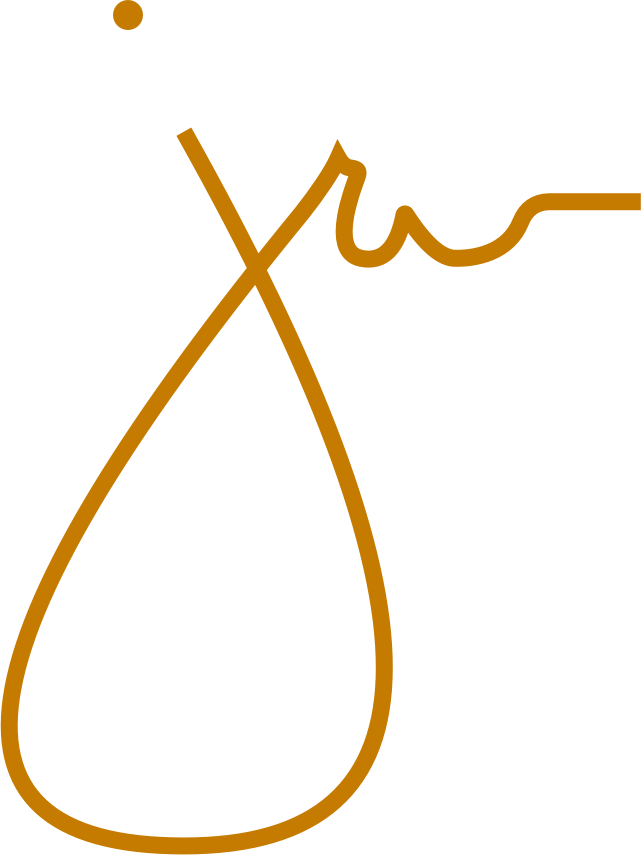
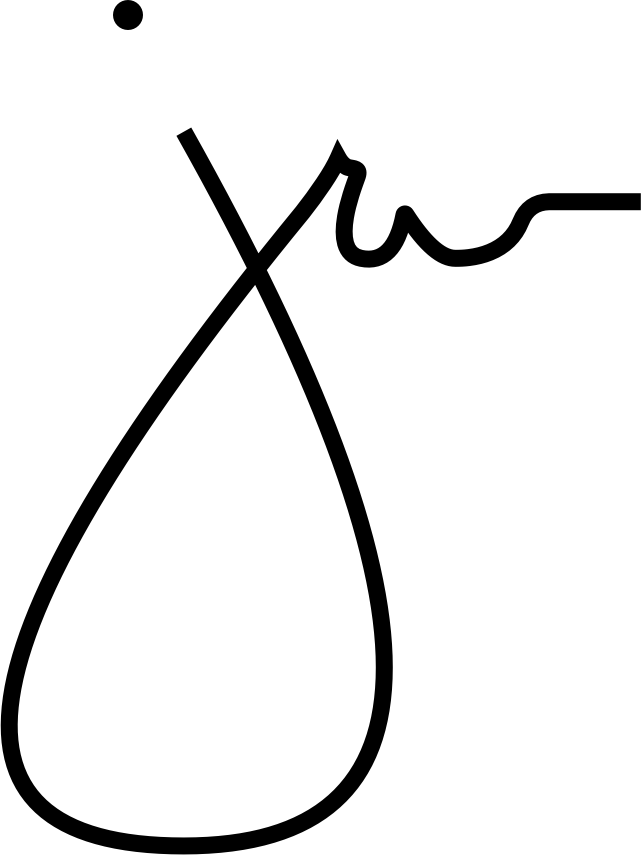
style updates

Changed region(s): [[0.0, 0.152, 1.0, 1.0], [0.156, 0.0, 0.2184, 0.0608]]

diff --git a/_sass/typography.scss b/_sass/typography.scss
@@ -14,7 +14,7 @@ p, ul, ol {
 	font-size: 1em; /* 16px */
 	line-height: 1.5em; /* 24px/16px */
 	margin-bottom: 1.5em; /* 24px/16px */
-	font-family: 'Crimson Text', serif;
+	font-family: 'Muli', sans-serif;
 }
 
 h1 {
@@ -69,7 +69,7 @@ p, ul, ol {
 	font-size: 1em; /* 18px */
 	line-height: 1.3334em; /* 24px/18px */
 	margin-bottom: 1.3334em; /* 24px/18px */
-	font-family: 'Crimson Text', serif;
+	font-family: 'Muli', sans-serif;
 }
 
 h1 {
@@ -110,7 +110,7 @@ blockquote {
           border-radius: 4px;
 	background-color: darken($background-color, 5%);
 	padding: 0 1.33334em; /* 24px/18px */
-	font-family: 'Crimson Text', serif;
+	font-family: 'Muli', sans-serif;
 	p, ul, ol {
 		padding: 1.33334em 0; /* 24px/18px */
 	}

diff --git a/_sass/base.scss b/_sass/base.scss
@@ -18,8 +18,8 @@ html, body, h1, h2, h3, h4, h5, h6, p, ul, ol, li, img {
 
 /*- Base color -*/
 
-$main-color: #C57A00;
-$nav-background: #081c3a;
+$main-color: #27e87d;
+$nav-background: #000000;
 $background-color: #FDFDFD;
 $text-color: #222222;
 
